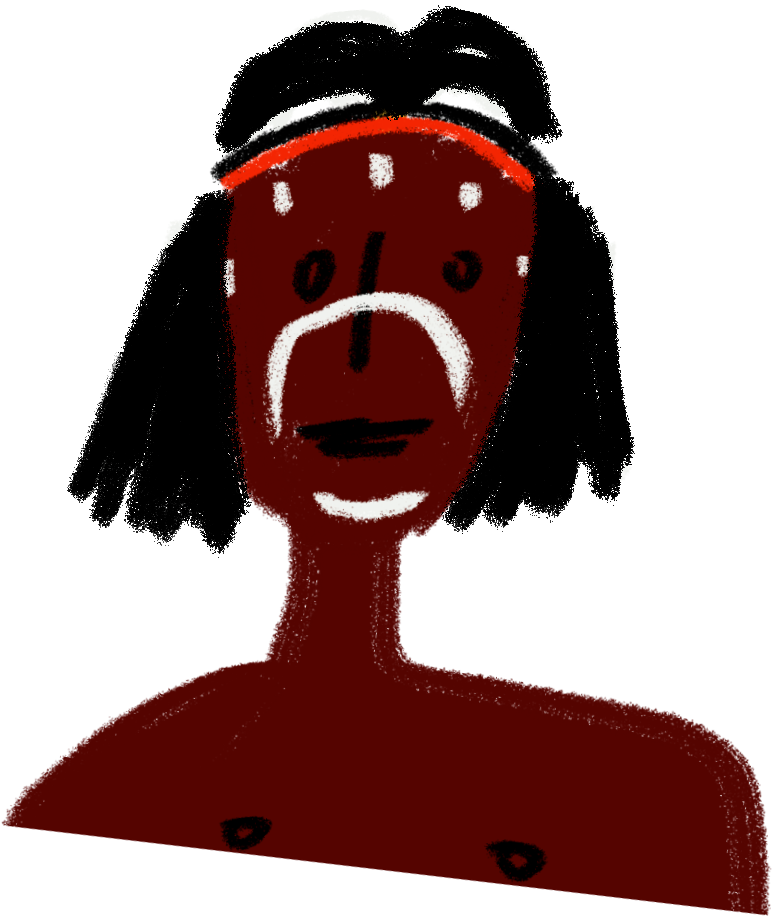
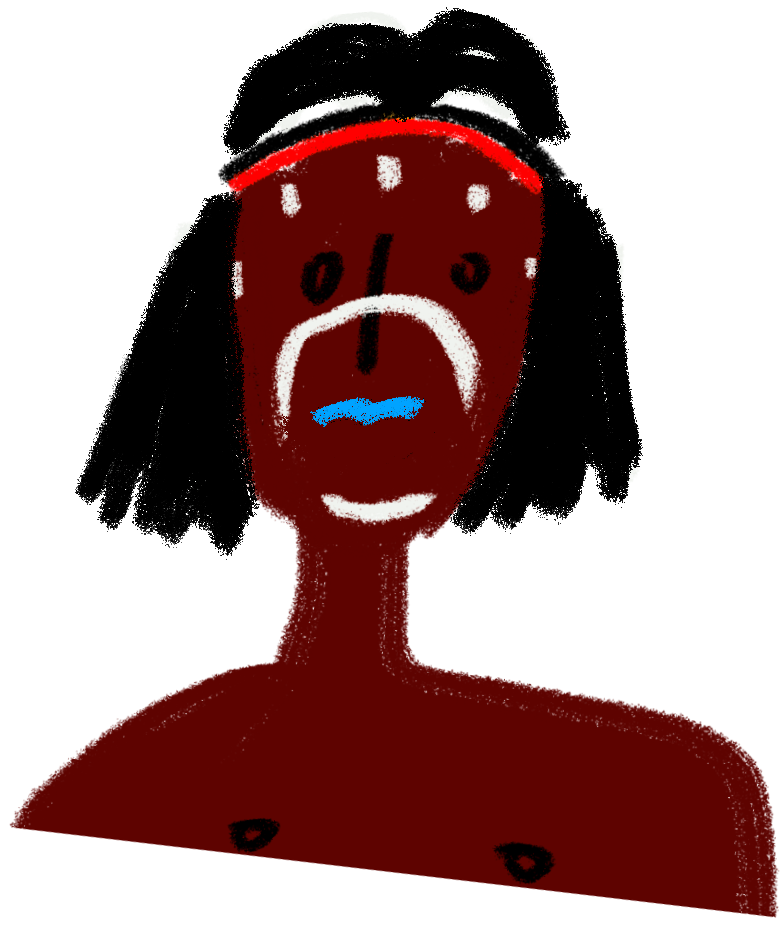
호주 원주민 이미지 못읽어오는 버그 수정

diff --git a/1/index.html b/1/index.html
@@ -116,10 +116,10 @@
               <img draggable="false" src="./assets/2_australia/2_australia_sun.png">
             </div>
             <div id="native" class="red_cursor">
-              <img draggable="false" src="./assets/2_australia/원주민.png">
+              <img draggable="false" src="./assets/2_australia/2_australia_native.png">
             </div>
             <div id="native_lips">
-              <img draggable="false" src="./assets/2_australia/원주민 아랫 입술.png">
+              <img draggable="false" src="./assets/2_australia/2_australia_native_lips.png">
             </div>
             <div id="native_hand">
               <img draggable="false" src="./assets/2_australia/2_australia_hand.png">
